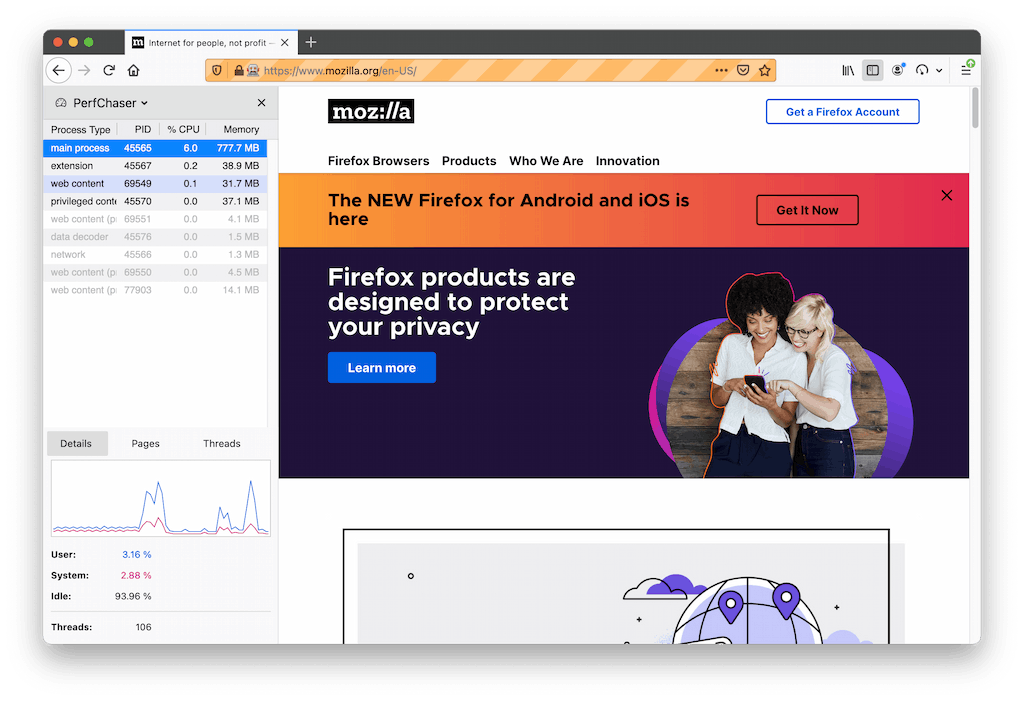
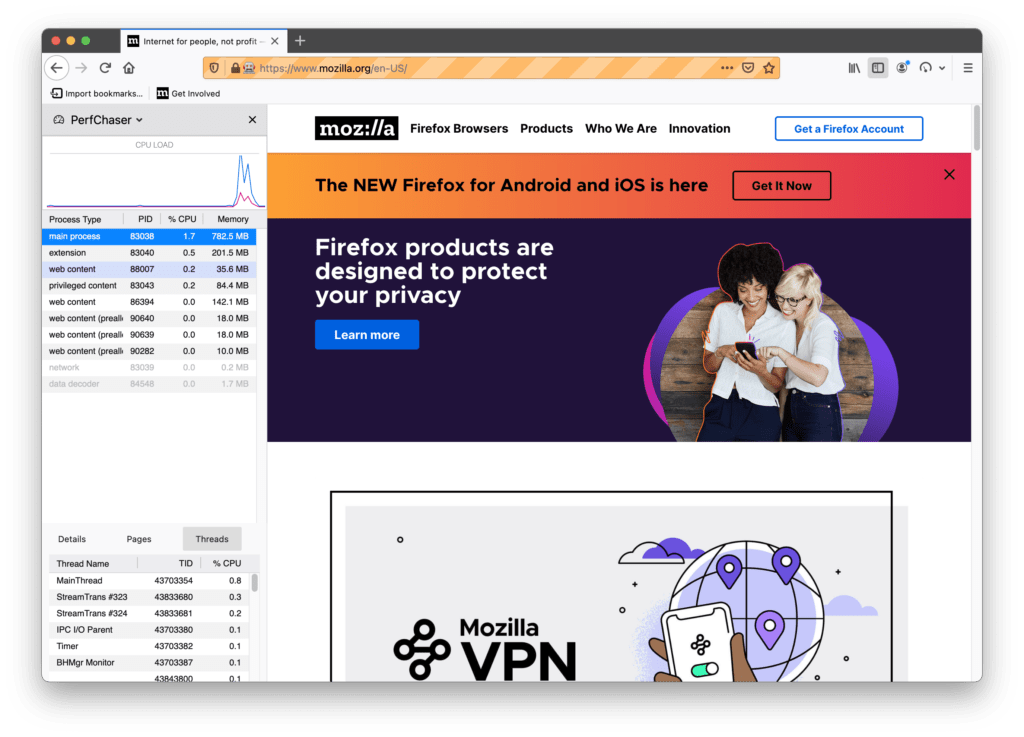
Release version 0.3.0 (#40)

diff --git a/History.md b/History.md
@@ -1,0 +1,78 @@
+v0.3.0 / 2021-03-14
+===================
+
+  * Use document's URI instead of title to better identify windows (#38)
+  * Refresh processes immediately when sidebar has been loaded (#37)
+  * Always update history chart (#36)
+  * Align font size to other sidebar panels (#35)
+  * Move CPU history chart to the top of the sidebar. (#34)
+  * Cache history chart properties to avoid extra calculation and layout flushes (#33)
+  * Initialize details pane without triggering a click event (#31)
+  * Directly access the background script from the sidebar (#29)
+
+v0.2.1 / 2021-03-01
+===================
+
+  * Release version 0.2.1 (#20)
+  * Fix extension update by usinig a JSON file (#19)
+  * Fix broken links in update.rdf (#18)
+
+v0.2 / 2021-03-01
+=================
+
+  * Release version 0.2 (#16)
+  * Display history chart for system and user CPU load (#15)
+  * Display kernel and cpu usage in details pane (#14)
+  * Remove process name from details pane (#13)
+  * Use circular buffer in background script to keep history of processes (#12)
+  * Add temporary install instructions (#7)
+  * Update README.md for install instructions
+  * Update README.md
+  * Add screenshot to README.
+
+v0.1 / 2021-02-07
+=================
+
+  * Added XPI for nightly build..
+  * Add support for extension update.
+  * Disable the non-functional toolbar popup menu.
+  * Set min-width for sidebar
+  * Updated README for installation and development
+  * Added hidden .web-extension-id file.
+  * Added npm script to run the extension in Firefox.
+  * Added build script.
+  * Move processing of process data from Experiments API to background script.
+  * Add support for listing pages of current process.
+  * Add process details pane.
+  * Allow output of memory usage in GB.
+  * Only submit necessary process information in "process-list" message.
+  * Add thread list to process details view.
+  * Added details and threads panels for process info.
+  * updateView has to use global variables.
+  * Only sort process list for new data or updated sort settings
+  * Add process details pane and process selection.
+  * Simplify CSS definitions
+  * Make idle processes more obvious.
+  * Fallback to parent process as selected process if no content processes match.
+  * Gray out idle processes in process list.
+  * Highlight processes in use by currently selected tab.
+  * Fix update interval timer handling.
+  * Revert default update interval to 5s.
+  * Allow to tweak the update interval via toolbar popup.
+  * Request initial process list when sidebar gets opened.
+  * Sort by CPU per default.
+  * Don't capitalize process type values in sidebar.
+  * Add listener for onMessage with "load" event.
+  * Default to descending when switching sortable columns.
+  * Use sans-serif for table entries in sidebar for better alignment.
+  * Adjust column width for CPU and memory.
+  * Remove parseInt from sorting given that values are numbers by default.
+  * Some optimizations and initial support for sorting
+  * Reduce default update interval to 5s.
+  * Disable handling of threads.
+  * Add how to run details to readme.
+  * Add current CPU usage
+  * Rename cpu total properties.
+  * Add cpu total to processes and threads.
+  * Return a process list instead of a hierarchical process tree.
+  * Initial commit
